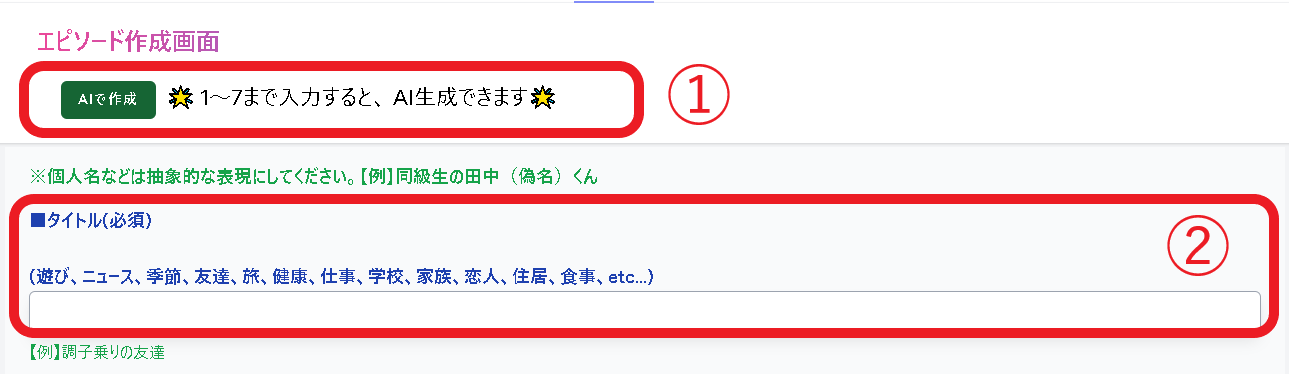
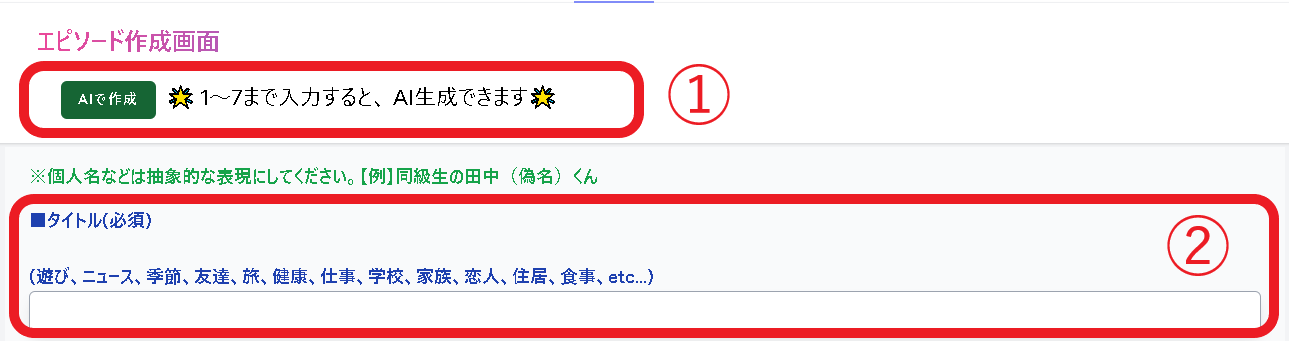
エピソード詳細画面のマニュアルを追加

diff --git a/resources/views/manual.blade.php b/resources/views/manual.blade.php
@@ -119,9 +119,28 @@
                         <p class="text-base mb-4">
                             ①「タイトル」<br>エピソードのタイトルです。タイトルを押すと、エピソードの詳細画面を見ることができます。<br><br>
                             ②「いいね」<br>エピソードにいいねすることができます。いいねをするとハートマークが赤くなります。<br><br>
-                            ③「コメントする」<br>タイトルと同じく、エピソードの詳細画面に移ります。エピソードの詳細画面でコメントを入力することができます。<br><br>
+                            ③「コメントする」<br>タイトルと同じく、エピソードの詳細画面に移動します。エピソードの詳細画面でコメントを入力することができます。<br><br>
                         </p>
                         <p class="text-base mb-4">みんなの投稿画面の説明は以上です。</p>
+                    </div>
+                </div>
+                <div class="manual-item">
+                    <button onclick="toggleSection('manual-syousai')" class="manual-button">
+                        <span class="arrow">▼</span> エピソード詳細画面📖
+                    </button>
+                    <div id="manual-syousai" class="manual-content hidden">
+                        <p class="text-base mb-4">
+                            エピソード詳細画面の説明です。
+                        </p>
+                        <img src="{{ asset('img/manual/syousai1.png') }}" alt="エピソード招請" class="manual-img-large">
+                        <p class="text-base mb-4">
+                            ①「公開状態」<br>エピソードの公開状態を設定できます。<br><br>
+                            ②「編集」<br>エピソードの編集画面に移動します。<br><br>
+                            ③「削除」<br>エピソードを削除します。<br><br>
+                            ④「いいね」<br>エピソードにいいねすることができます。いいねをするとハートマークが赤くなります。<br><br>
+                            ⑤「コメント」<br>エピソードにコメントすることができます。コメント入力欄に入力し、「コメントする」ボタンを押します。<br><br>
+                        </p>
+                        <p class="text-base mb-4">エピソード詳細画面の説明は以上です。</p>
                     </div>
                 </div>
                 <div class="manual-item">
@@ -129,7 +148,60 @@
                         <span class="arrow">▼</span> エピソード編集✍
                     </button>
                     <div id="manual-edit" class="manual-content hidden">
-                        <p>ここに「エピソード編集」に関する説明を記載します。</p>
+                    <p class="text-base mb-4">
+                                新規作成画面の説明です。
+                        </p>
+                        <img src="{{ asset('img/manual/new1.png') }}" alt="エピソード編集" class="manual-img-large">
+                        <p class="text-base mb-4">
+                            ①「AIで生成」<br>AIでエピソードを生成することができます。生成する際は、5W1H1Dを参照します。何も入力していなくても生成することはできます。<br><br>
+                            ②「タイトル」<br>エピソードのタイトルを入力します。必須項目なので、ここを入力せずに保存しようとするとエラーになります。<br>
+                            (遊び、ニュース、季節、友達、旅、健康、仕事、学校、家族、恋人、住居、食事)などから考えてみましょう。<br>【例】調子乗りの友達<br><br>
+                        </p>
+                        <img src="{{ asset('img/manual/new2.png') }}" alt="エピソード編集" class="manual-img-large">
+                        <p class="text-base mb-4">
+                            ③「いつ？」<br>出来事がいつ起こったか入力します。<br>
+                            【例】小学校の掃除時間<br><br>
+                            ④「どこで？」<br>出来事がどこで起こったか入力します。<br>
+                            【例】教室で<br><br>
+                            ⑤「だれが？」<br>行動したのはだれか入力します。<br>
+                            【例】トイレットペーパーを全身に巻いた友達が<br><br>
+                        </p>
+                        <img src="{{ asset('img/manual/new3.png') }}" alt="エピソード編集" class="manual-img-large">
+                        <p class="text-base mb-4">
+                            ⑥「なにを？」<br>出来事の対象物、対象人物を入力します。<br>
+                            【例】先生を<br><br>
+                            ⑦「どうした？」<br>どのような行動をしたのか、何が起こったのかを入力します。<br>
+                            【例】怒らせた<br><br>
+                            ⑧「なぜ？」<br>出来事が起こった理由、行動した理由を入力します。<br>
+                            【例】間違って先生を驚かしたから<br><br>
+                        </p>
+                        <img src="{{ asset('img/manual/new4.png') }}" alt="エピソード編集" class="manual-img-large">
+                        <p class="text-base mb-4">
+                            ⑨「どのように？」<br>出来事や行動がどのように成されたか入力します。<br>
+                            【例】掃除用具入れから飛び出してきて<br><br>
+                            ⑩「共感ポイント？」<br>この話の中で、聞き手に共感してほしい、面白いと思ったポイントや感情を入力します。<br>
+                            【例】友達が調子に乗って、罰が当たるところ<br><br>
+                            ⑪「5W1H1Dまとめ」<br>5W1H1Dに入力した内容が、自動的に結合されてここに表示されます。<br><br>
+                        </p>
+                        <img src="{{ asset('img/manual/new5.png') }}" alt="エピソード編集" class="manual-img-large">
+                        <p class="text-base mb-4">
+                            ⑫「起(フリ：導入)」<br>話の導入。話を聞いてもらう上で必要な情報を入力します。<br>
+                            【例】小学生のころ、すごく調子乗りな友達がいた。<br><br>
+                            ⑬「承(フリ：起の情報を深める)」<br>「起」の情報を深める情報を入力します。<br>
+                            【例】「女子だけ体育館に集合」ってときに、こっそりついて行って怒られるようなお調子者だった。<br><br>
+                            ⑭「転(フリ：話の山場。聞き手の興味関心を惹く)」<br>話の山場となる部分を入力します。<br>
+                            【例】ある日の掃除時間、その友達はトイレットペーパーを全身に巻いて掃除用具入れに隠れていた。何も知らない先生がやってきて掃除用具入れを開けた。<br><br>
+                            ⑮「結(オチ：最終的にどうなったか)」<br>結末、オチを入力します。<br>
+                            【例】するとその友達が飛び出してきて、先生ビックリ！友達はこっぴどく怒られた。<br><br>
+                        </p>
+                        <img src="{{ asset('img/manual/new6.png') }}" alt="エピソード編集" class="manual-img-large">
+                        <p class="text-base mb-4">
+                            ⑯「起承転結の内容を反映」<br>このボタンを押すと、起承転結の内容を結合して下のエピソード欄に反映します。<br><br>
+                            ⑰「エピソード欄」<br>エピソード本体になります。必須項目です。これまでで作成した内容を確認し、補足や脚色を入れて清書します。<br><br>
+                            ⑱「公開状態」<br>エピソードを他のユーザーに公開するか、公開しないかを選びます。公開するとランキングにも参加できます。<br><br>
+                            ⑲「投稿する」<br>エピソードを保存します。<br><br>
+                        </p>
+                        <p class="text-base mb-4">新規作成画面の説明は以上です。</p>
                     </div>
                 </div>
                 <div class="manual-item">

diff --git a/resources/views/episode/edit.blade.php b/resources/views/episode/edit.blade.php
@@ -15,59 +15,49 @@
             @method('patch')
             <div class="w-full flex flex-col">
             <p class="font-semibold mt-4 text-green-600 text-lg ">※個人名などは抽象的な表現にしてください。【例】同級生の田中（偽名）くん</p>
-                <label for="title" class="font-semibold mt-4 text-blue-800 text-lg ">■タイトル(必須)<br><br>(遊び、ニュース、季節、友達、旅、健康、仕事、学校、家族、恋人、住居、食事、etc...)</label>
+                <label for="title" class="font-semibold mt-4 text-blue-800 text-lg ">■タイトル(必須)<br><br></label>
                 <x-input-error :messages="$errors->get('title')" class="mt-2" />
                 <input type="text" name="title" class="w-auto py-2 border border-gray-400 rounded-md" id="title" value="{{old('title', $episode->title)}}">
             </div>
-            <p class="text-green-600 mt-2">【例】調子乗りの友達</p>
-
             <div class="w-full flex flex-col">
                 <label for="when" class="font-semibold mt-4 text-blue-800 text-lg">■5W1H1Dに整理する<br><br>1.いつ？</label>
                 <input type="text" name="when" class="w-auto py-2 border border-gray-400 rounded-md" id="when" value="{{ old('when', $episode->when) }}">
             </div>
-            <p class="text-green-600 mt-2">【例】小学校の掃除時間</p>
 
             <div class="w-full flex flex-col">
                 <label for="where" class="font-semibold mt-4 text-blue-800 text-lg">2.どこで？</label>
                 <input type="text" name="where" class="w-auto py-2 border border-gray-400 rounded-md" id="where" value="{{ old('where', $episode->where) }}">
             </div>
-            <p class="text-green-600 mt-2">【例】教室で</p>
 
             <div class="w-full flex flex-col">
                 <label for="who" class="font-semibold mt-4 text-blue-800 text-lg">3.だれが？</label>
                 <input type="text" name="who" class="w-auto py-2 border border-gray-400 rounded-md" id="who" value="{{ old('who', $episode->who) }}">
             </div>
-            <p class="text-green-600 mt-2">【例】トイレットペーパーを全身に巻いた友達が</p>
 
             <div class="w-full flex flex-col">
                 <label for="what" class="font-semibold mt-4 text-blue-800 text-lg">4.なにを？</label>
                 <input type="text" name="what" class="w-auto py-2 border border-gray-400 rounded-md" id="what" value="{{ old('what', $episode->what) }}">
             </div>
-            <p class="text-green-600 mt-2">【例】先生を</p>
 
             <div class="w-full flex flex-col">
                 <label for="do" class="font-semibold mt-4 text-blue-800 text-lg">5.どうした？</label>
                 <input type="text" name="do" class="w-auto py-2 border border-gray-400 rounded-md" id="do" value="{{ old('do', $episode->do) }}">
             </div>
-            <p class="text-green-600 mt-2">【例】怒らせた</p>
 
             <div class="w-full flex flex-col">
                 <label for="why" class="font-semibold mt-4 text-blue-800 text-lg">6.なぜ？</label>
                 <input type="text" name="why" class="w-auto py-2 border border-gray-400 rounded-md" id="why" value="{{ old('why', $episode->why) }}">
             </div>
-            <p class="text-green-600 mt-2">【例】間違って先生を驚かしたから</p>
 
             <div class="w-full flex flex-col">
                 <label for="how" class="font-semibold mt-4 text-blue-800 text-lg">7.どのように？</label>
                 <input type="text" name="how" class="w-auto py-2 border border-gray-400 rounded-md" id="how" value="{{ old('how', $episode->how) }}">
             </div>
-            <p class="text-green-600 mt-2">【例】掃除用具入れから飛び出してきて</p>
 
             <div class="w-full flex flex-col">
                 <label for="point" class="font-semibold mt-4 text-blue-800 text-lg">8.この話で一番共感してほしい、面白ポイントは？</label>
                 <input type="text" name="point" class="w-auto py-2 border border-gray-400 rounded-md" id="point" value="{{ old('point', $episode->point) }}">
             </div>
-            <p class="text-green-600 mt-2">【【例】友達が調子に乗って、罰が当たるところ</p>
 
             <div id="result" class="mt-4 text-lg text-red-700" style="border: 1px solid black; padding: 10px;"></div>
 
@@ -99,25 +89,21 @@
                 <label for="beginning" class="font-semibold mt-4 text-blue-800 text-lg">■起承転結にまとめて、フリとオチを作る<br><br>9.起(フリ：導入)</label>
                 <textarea name="beginning" class="w-auto py-2 border border-gray-400 rounded-md" id="beginning" cols="30" rows="2">{{old('beginning', $episode->beginning)}}</textarea>
             </div>
-            <p class="text-green-600 mt-2">【例】小学生のころ、すごく調子乗りな友達がいた。</p>
 
             <div class="w-full flex flex-col">
                 <label for="development" class="font-semibold mt-4 text-blue-800 text-lg">10.承(フリ：起の情報を深める)</label>
                 <textarea name="development" class="w-auto py-2 border border-gray-400 rounded-md" id="development" cols="30" rows="2">{{old('development', $episode->development)}}</textarea>
             </div>
-            <p class="text-green-600 mt-2">【例】「女子だけ体育館に集合」ってときに、こっそりついて行って怒られるようなお調子者だった。</p>
 
             <div class="w-full flex flex-col">
                 <label for="turnand" class="font-semibold mt-4 text-blue-800 text-lg">11.転(フリ：話の山場。聞き手の興味関心を惹く)</label>
                 <textarea name="turnand" class="w-auto py-2 border border-gray-400 rounded-md" id="turnand" cols="30" rows="2">{{old('turnand', $episode->turnand)}}</textarea>
             </div>
-            <p class="text-green-600 mt-2">【例】ある日の掃除時間、その友達はトイレットペーパーを全身に巻いて掃除用具入れに隠れていた。何も知らない先生がやってきて掃除用具入れを開けた。</p>
 
             <div class="w-full flex flex-col">
                 <label for="conclusion" class="font-semibold mt-4 text-blue-800 text-lg">12.結(オチ：最終的にどうなったか)</label>
                 <textarea name="conclusion" class="w-auto py-2 border border-gray-400 rounded-md" id="conclusion" cols="30" rows="2">{{old('conclusion', $episode->conclusion)}}</textarea>
             </div>
-            <p class="text-green-600 mt-2">【例】するとその友達が飛び出してきて、先生ビックリ！友達はこっぴどく怒られた。</p>
 
             <script>
                 function copyTextToEpisode() {

diff --git a/resources/views/episode/show.blade.php b/resources/views/episode/show.blade.php
@@ -1,7 +1,7 @@
 <x-app-layout>
     <x-slot name="header">
         <h2 class="font-semibold  text-2xl leading-tight bg-gradient-to-r from-pink-500 via-blue-500 to-green-500 bg-clip-text text-transparent leading-tight">
-            エピソード個別表示
+            エピソード詳細画面
         </h2>
     </x-slot>
     <div class="max-w-7xl mx-auto px-6">
